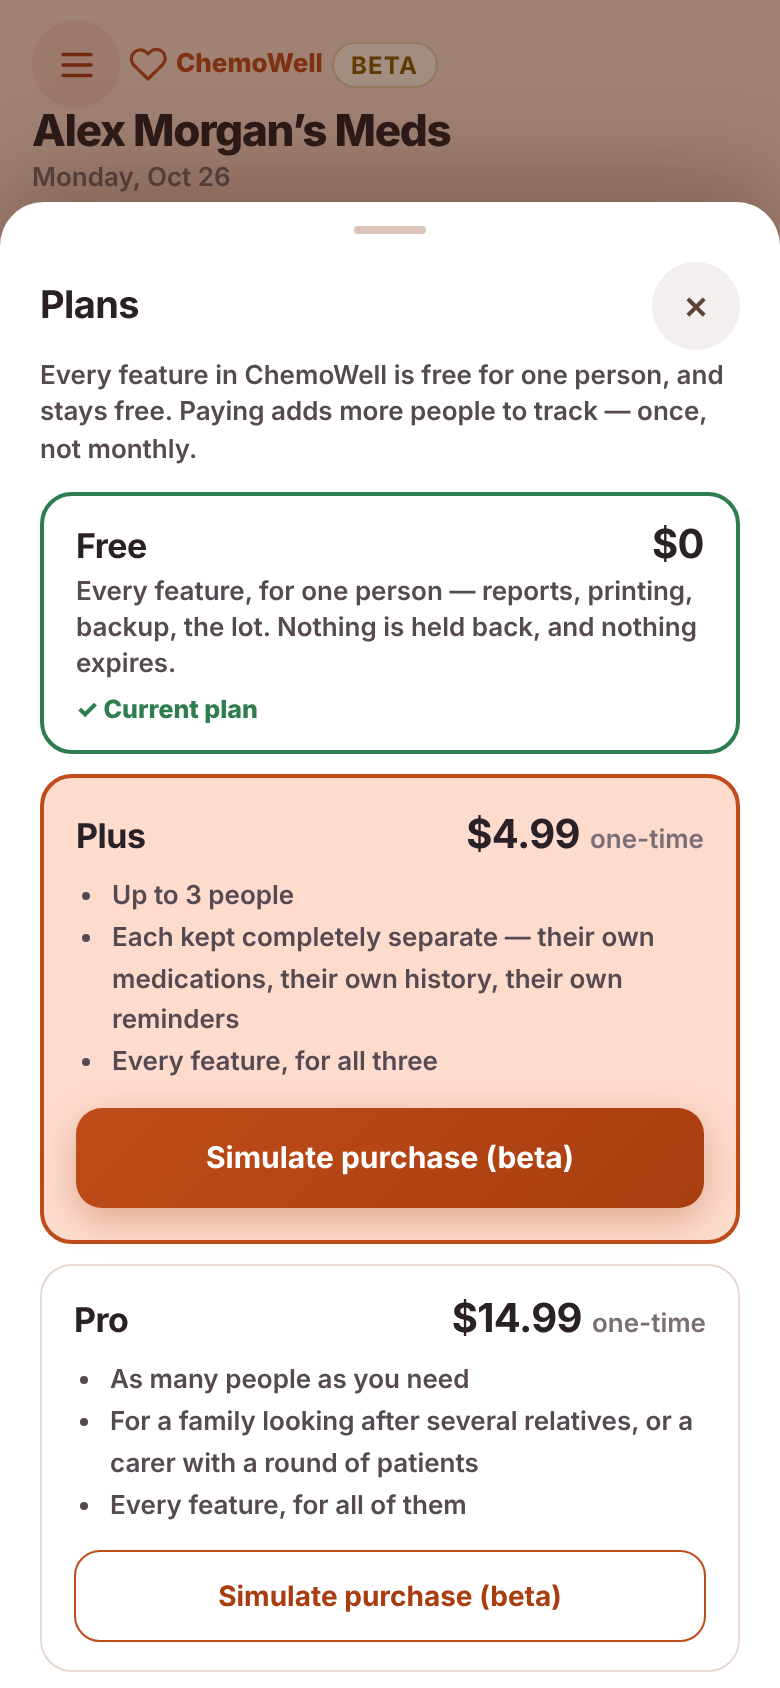
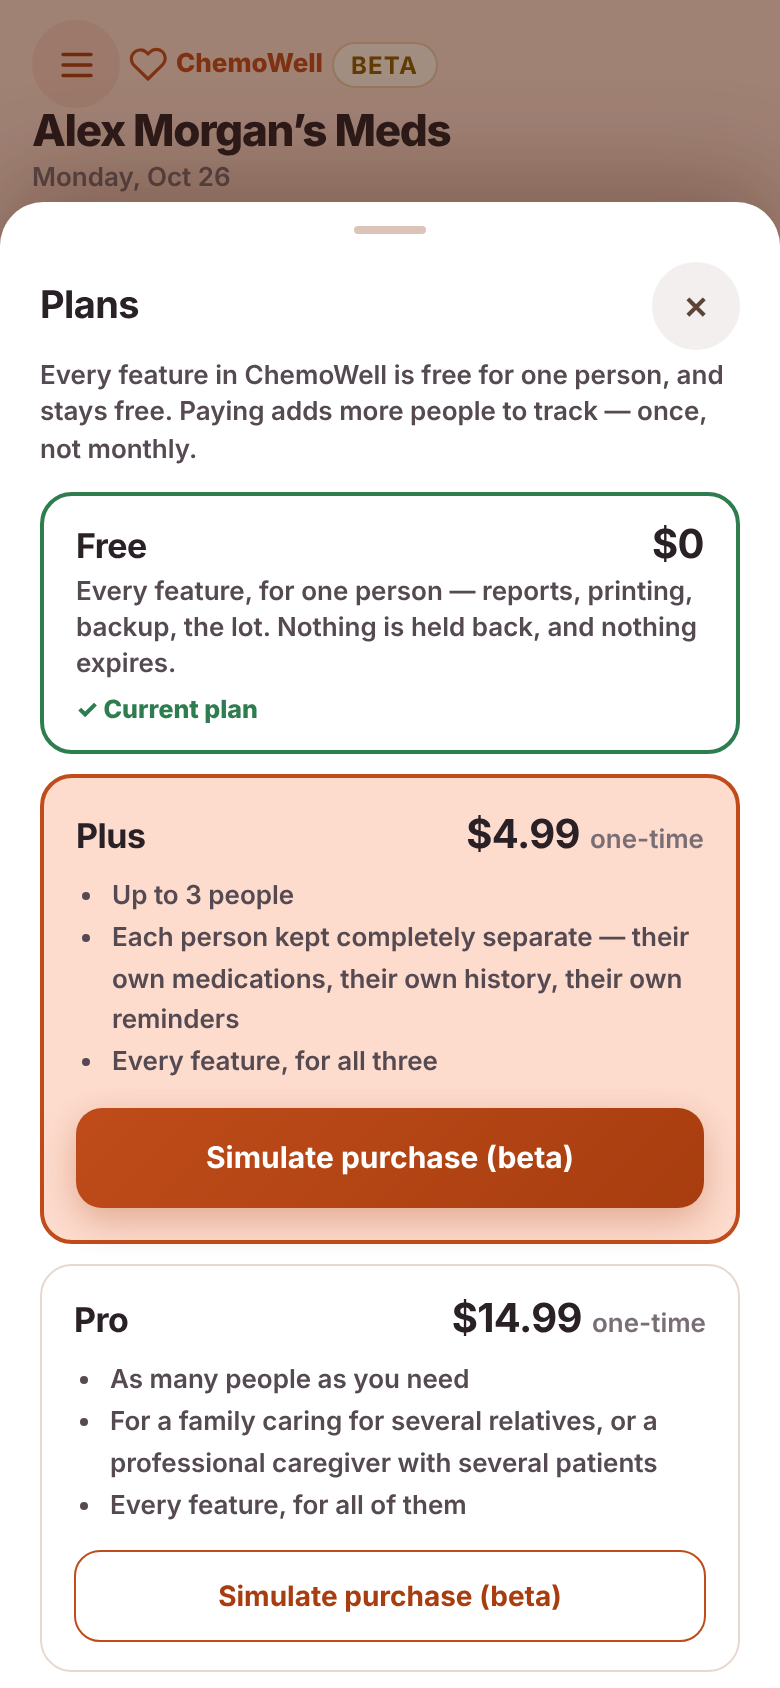
app-v89: Designer re-measure and the full falsification record
The copy fixes for the audit lengthened both paid cards, so both screens
were measured again rather than assumed unchanged: 21px taller at 320px,
still inside its own scroll, still no control under 44px and no horizontal
overflow at any width.

And the brief now carries what it promised to: sixteen mutants across two
rounds, every one red on the section written for it, every server
md5-verified against its own tree first -- which caught three mutants that
reported clean because a setup script had aborted before mutating them.
Third instrument failure of this release, after a check that ran too late
and a mutant served from the wrong directory.

Claude-Session: https://claude.ai/code/session_01YLK2mDPJLJLCZfexLETuMn

Changed region(s): [[0.1538, 0.8318, 0.8923, 0.8934], [0.1538, 0.5545, 0.8923, 0.5853]]

diff --git a/outputs/DEV-BRIEF-app-v89.md b/outputs/DEV-BRIEF-app-v89.md
@@ -80,3 +80,39 @@ export already uses and which free users already run. Nothing new is reachable.
 Free tier, from a cold profile: the printable report opens and produces the report; no PLUS pill
 anywhere; the plans sheet names no feature as paid; adding a second profile still opens the plans
 sheet; `tierLimit` still 1/3/∞; Help agrees with all of it; every existing suite still green.
+
+---
+
+## Falsification record (filled in after the fact, as the brief said it would be)
+
+**First round — eight mutants, each a byte copy served on its own port.** Every one red on the
+section written for it: the paywall restored (4 red, including the toast nudge once check 1.5 was
+fixed to sample at the click rather than after a 6-second popup timeout), the free cap widened to
+3 (1), the Plus cap made unlimited (1), the report bullet back on the Plus card (1), the PLUS pill
+back (1), Help's "not built yet" claim back (1), the Free card stripped of what it names (1), the
+"Most popular" badge back (1).
+
+**Second round — the Zero Day Auditor wrote four of its own and all four walked through.** Closed,
+and re-falsified along with guards for its two blockers. Eight mutants, every server md5-verified
+against its own tree before the run:
+
+| # | Mutant | Red |
+|---|---|---|
+| N1 | the `if (superseded)` line back above the `else` — the live export defect, exactly as it shipped | 5 |
+| N2 | free users served only the last 3 rows of the printable report (the auditor's A11) | 2 |
+| N3 | one of the two Add-profile cap guards loosened (A9) | 2 |
+| N4 | the Plus card sells two features again, one of them a promise (A10) | 2 |
+| N5 | the two prices swapped (A12) | 2 |
+| N6 | Help stops naming the protected-save button label | 1 |
+| N7 | Help drops the set-up-first caveat — blocker B1 restored | 2 |
+| N8 | the password step back to position 3, after the file is shared — blocker B2 restored | 2 |
+
+**Three of those reported clean on the first pass and were not detected — they were unmutated**,
+because a setup script had aborted before reaching them. The md5 check caught it. That is the third
+instrument failure of this release, after a check that ran too late and a mutant served from the
+wrong directory, and it is why verifying the server before believing a falsification result is now
+written into `TEAM.md` rather than remembered.
+
+**N1's failure message is the clearest statement of what was live for three releases:**
+*BLANK Detail for: Temperature, Blood Pressure, Weight, paracentesis, Radiation Session, Bowel
+Movement, Appetite, Nausea.*

diff --git a/outputs/DESIGN-app-v89.md b/outputs/DESIGN-app-v89.md
@@ -46,3 +46,20 @@ message.
 * **The What's New notice stacking above the plans sheet** (z-index) is pre-existing, unchanged by
   this release, and only reachable by opening the plans sheet without dismissing an update notice
   first. Not charged here; worth a look when the stacking order is next touched.
+
+---
+
+## Re-measured after the audit's copy fixes (same day)
+
+The blockers and majors rewrote `priv-lost-phone` end to end and lengthened both paid cards'
+middle bullets ("Each **person** kept completely separate", "…or a professional caregiver **with
+several patients**"), so the two screens were measured again rather than assumed unchanged.
+
+| Width | Export section | Plans sheet |
+|---|---|---|
+| 320 | no control under 44px · no horizontal overflow | content 935px (was 914), scrolls internally · clean |
+| 360 | same | 896px (was 875) · clean |
+| 390 | same | 875px (unchanged) · clean |
+
+21px taller at the narrow end, still inside its own scroll, still nothing under 44px and no
+horizontal overflow at any width. Screenshots in `outputs/design-app-v89/` are the re-shot set.
